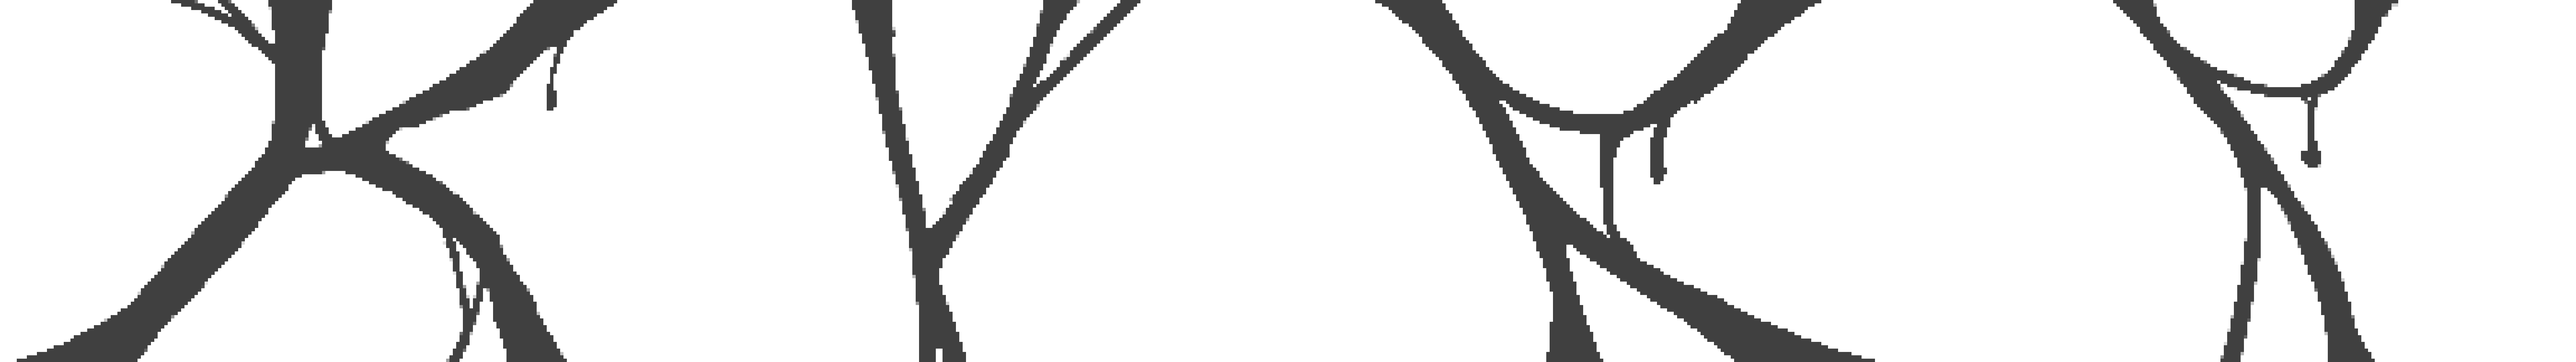
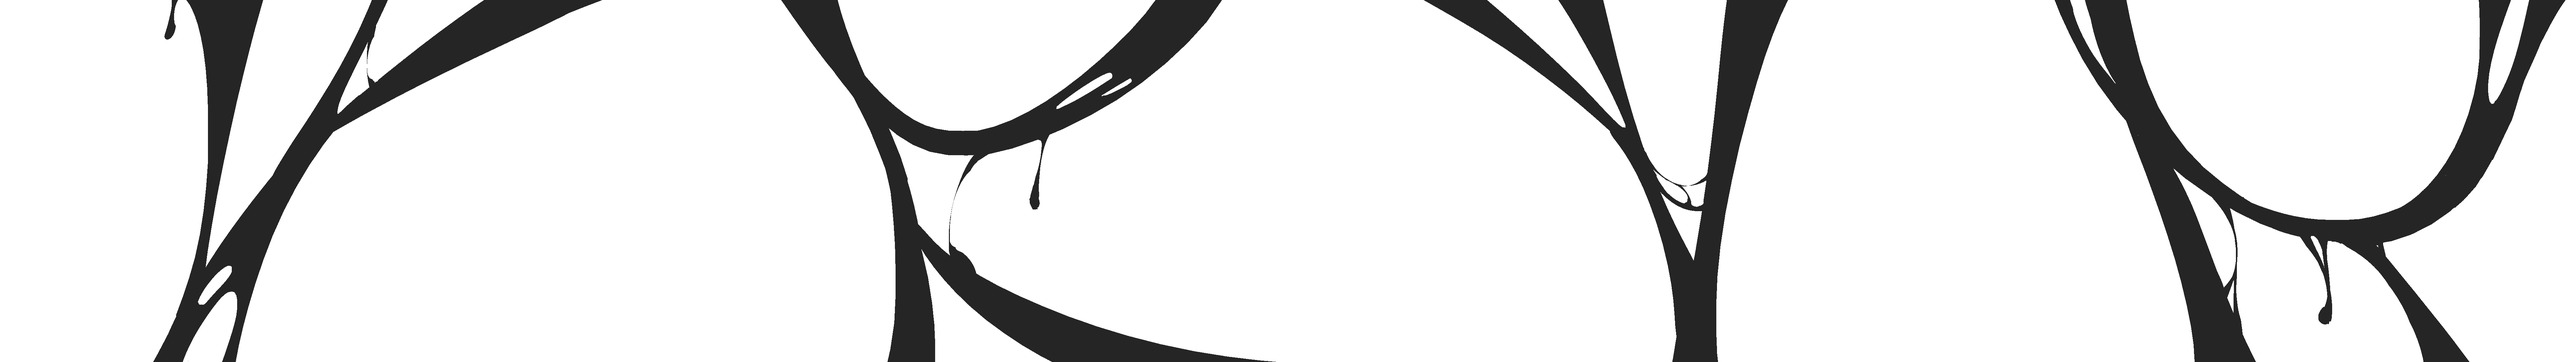
new textures & shit

diff --git a/SurfioAud/Game1.cs b/SurfioAud/Game1.cs
@@ -11,6 +11,8 @@ namespace SurfioAud
         private readonly GraphicsDeviceManager _graphics;
         private SpriteBatch _spriteBatch;
 
+        private readonly int[] _randomNumbers;
+
         private IWave _waves;
         private Player _player;
         private RenderTarget2D _renderTarget;
@@ -24,14 +26,14 @@ namespace SurfioAud
 
             _graphics.GraphicsProfile = GraphicsProfile.HiDef;
 
-            _randomNumbers = new int[10000];
+            _randomNumbers = new int[1920 * 10];
         }
  
         protected override void Initialize()
         {
             base.Initialize();
 
-            _graphics.IsFullScreen = true;
+            _graphics.IsFullScreen = false;
             if (_graphics.IsFullScreen)
             {
                 _graphics.PreferredBackBufferWidth = 1920;
@@ -39,8 +41,8 @@ namespace SurfioAud
             }
             else
             {
-                _graphics.PreferredBackBufferWidth = 1920 / 2;
-                _graphics.PreferredBackBufferHeight = 1080 / 2;
+                _graphics.PreferredBackBufferWidth = 1920 * 2 / 3;
+                _graphics.PreferredBackBufferHeight = 1080 * 2 / 3;
             }
             _graphics.ApplyChanges();
             IsMouseVisible = true;
@@ -48,10 +50,21 @@ namespace SurfioAud
             _waves = new ExpandedWave(new ScaledWave(new CompositeWave(
                 new ScaledWave(new MovingWave(new SinWave(200), 100), 0.1),
                 new ScaledWave(new MovingWave(new SinWave(100), -25), 0.05),
-                new SmoothedWave(new MovingWave(new Microwave(), 300), 30)
+                new SmoothedWave(new MovingWave(new Microwave(), 350), 30)
             ), 100), 2);
 
             _player = new Player(new Vector(0, 0));
+
+            var gen = System.Security.Cryptography.RandomNumberGenerator.Create();
+            var bytes = new byte[_randomNumbers.Length * 2];
+            gen.GetBytes(bytes);
+            for (int i = 0; i < _randomNumbers.Length; i++)
+            {
+                int x = 0;
+                x |= bytes[i * 2];
+                x |= (int)bytes[i * 2 + 1] << 8;
+                _randomNumbers[i] = x % 2048;
+            }
         }
         
         protected override void LoadContent()
@@ -134,13 +147,12 @@ namespace SurfioAud
 
         private void DrawWaves(Vector camera)
         {
-            var rnd = new Random(_tick);
             for (int i = 0; i < 1920 / 2; i++)
             {
                 double wave = _waves.GetHeight(camera.X + i * 2);
                 double freeSpace = camera.Y - wave;
                 int h = (int)Math.Round(freeSpace);
-                int startH = rnd.Next(2503);
+                int startH = _randomNumbers[(_tick * 1920 + i) % _randomNumbers.Length];
                 int texH = (1080 - h + 1) / 2;
 
                 _spriteBatch.Draw(Resources.Static, new Rectangle(i * 2, h, 2, texH * 2), new Rectangle(0, startH, 1, texH), Color.White);
@@ -151,7 +163,7 @@ namespace SurfioAud
         {
             _spriteBatch.Draw(Resources.Background, Vector2.Zero, Color.White);
 
-            const double ParalaxSpeed1 = 0.2;
+            const double ParalaxSpeed1 = 0.15;
             double pt = -ParalaxSpeed1 * camera.X;
             pt = (pt % (1920 * 4) + (1920 * 4)) % (1920 * 4);
             int x = (int)Math.Round(pt);
@@ -162,8 +174,10 @@ namespace SurfioAud
             pt = -ParalaxSpeed2 * camera.X;
             pt = (pt % (1920 * 2) + (1920 * 2)) % (1920 * 2);
             x = (int)Math.Round(pt);
-            _spriteBatch.Draw(Resources.Paralax2, new Rectangle(x, 0, 1920 * 2, 1080), Color.White);
-            _spriteBatch.Draw(Resources.Paralax2, new Rectangle(x - 1920 * 2, 0, 1920 * 2, 1080), Color.White);
+            int a = 200;
+            var color = new Color(a, a, a);
+            _spriteBatch.Draw(Resources.Paralax2, new Rectangle(x, 0, 1920 * 2, 1080), color);
+            _spriteBatch.Draw(Resources.Paralax2, new Rectangle(x - 1920 * 2, 0, 1920 * 2, 1080), color);
 
             double first = Math.Floor(camera.X / 300) - 1;
             for (int i = 0; i < 10; i++)

diff --git a/SurfioAud/Player.cs b/SurfioAud/Player.cs
@@ -53,7 +53,7 @@ namespace SurfioAud
 
             }
 
-            double reduce = Math.Abs(_velocity.X) * dt * 0.75;
+            double reduce = Math.Abs(_velocity.X) * dt * 0.45;
             if (_velocity.X > reduce)
             {
                 _velocity.X -= reduce;
